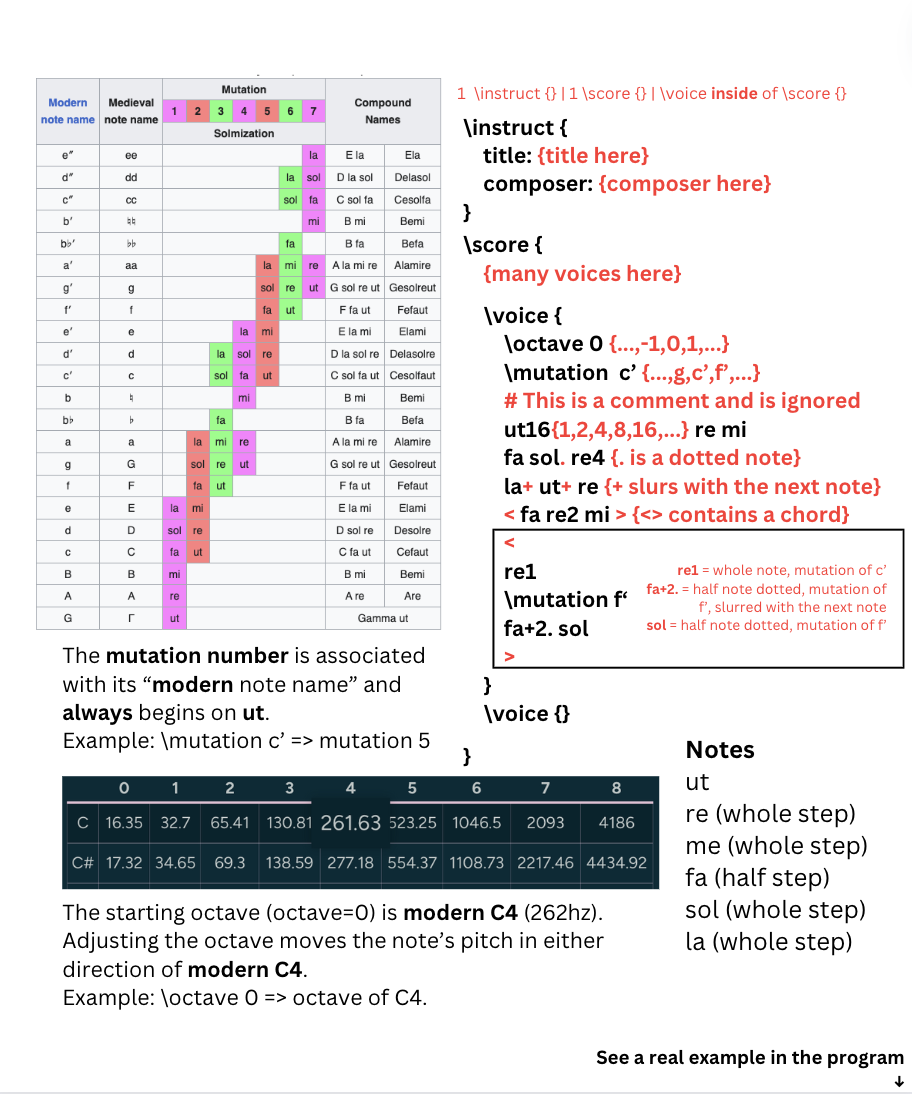
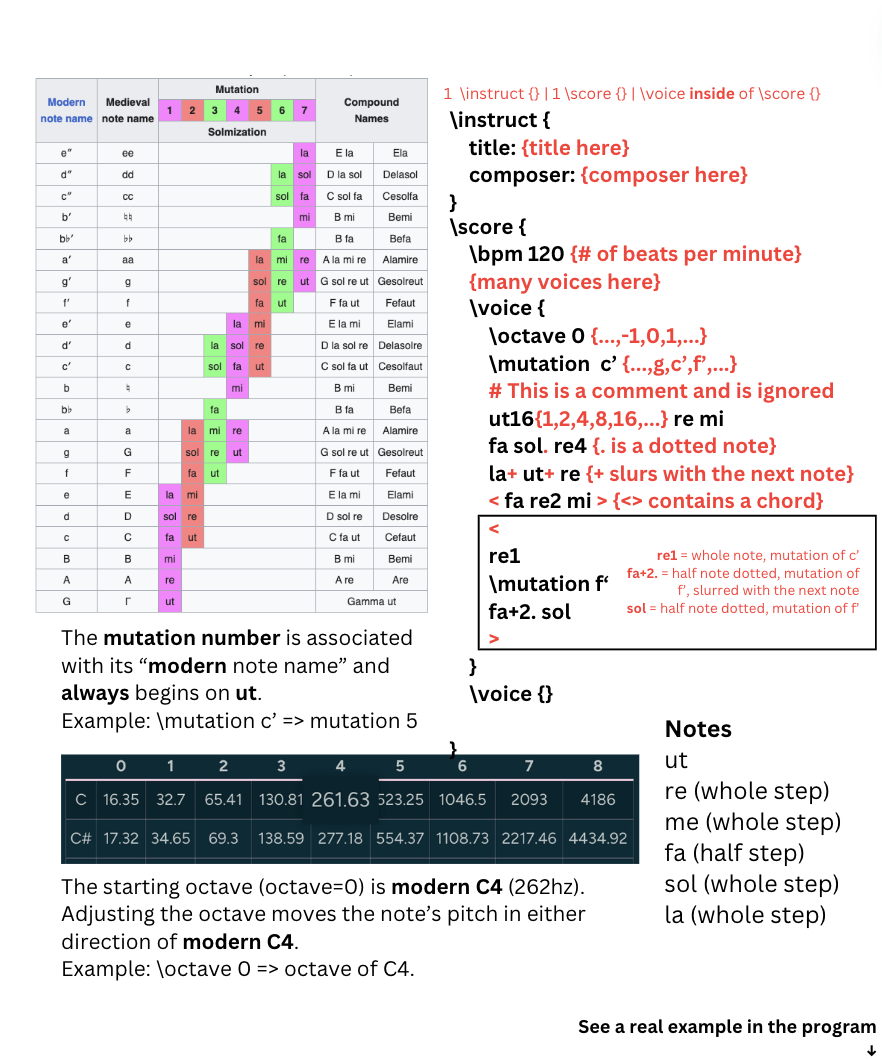
updates

Changed region(s): [[0.0306, 0.0623, 1.0, 0.934], [0.0, 0.9651, 1.0, 1.0]]

diff --git a/src/compiler.py b/src/compiler.py
@@ -1,7 +1,7 @@
 import logging, re
 
 # constants
-INSTRUCT, SCORE, VOICE, OCTAVE, MUTATION = "instruct", "score", "voice", "octave", "mutation"
+INSTRUCT, SCORE, VOICE, OCTAVE, MUTATION, BPM = "instruct", "score", "voice", "octave", "mutation", "bpm"
 NOTES = ["ut", "re", "mi", "fa", "sol", "la", "ut+", "re+", "mi+", "fa+", "sol+", "la+", "-"]
 
 ## MAIN FUNCTION ##
@@ -13,9 +13,12 @@ def compile_score(filepath: str) -> dict | list:
     mode = None
     octave = None
     mutation = None
+    bpm = 120/60 # this is normalized
     chords = []
     duration = 1
     voice = -1
+    start_chord = False
+    end_chord = False
 
     with open(filepath, "r") as MUSIC_FILE:
         for line in MUSIC_FILE.readlines():
@@ -29,7 +32,7 @@ def compile_score(filepath: str) -> dict | list:
 
             # mode change
             if tokens[0].startswith("\\"):
-                mode, octave, mutation, voice = change_mode(mode, tokens, voices, octave, mutation, voice)
+                mode, octave, mutation, bpm, voice = change_mode(mode, tokens, voices, octave, mutation, bpm, voice)
                 # error detected
                 if mode == None: 
                     logging.error("mode not found")
@@ -39,28 +42,33 @@ def compile_score(filepath: str) -> dict | list:
             if mode == INSTRUCT:
                 update_file_data(tokens, file_data)
             elif mode == VOICE:
-                duration, chords = update_voices(tokens, voices[voice], octave, mutation, duration, chords)
+                duration, chords, start_chord, end_chord = update_voices(tokens, voices[voice], octave, mutation, bpm, duration, chords, start_chord, end_chord)
+
+    import pprint
+    pprint.pprint(voices)
+    print(bpm)
 
     return file_data, voices
 
 ## HELPER FUNCTION ##
-def change_mode(mode: str, tokens: list, voices: list, octave: int, mutation: str, voice: int) -> tuple:
+def change_mode(mode: str, tokens: list, voices: list, octave: int, mutation: str, bpm: int, voice: int) -> tuple:
     """This method reads when a mode change occurs."""
     # get token and compare
     command = tokens[0].split("\\")[1].strip()
 
     # change mode
-    if command == INSTRUCT: return (INSTRUCT, octave, mutation, voice)
-    elif command == SCORE: return (SCORE, octave, mutation, voice)
+    if command == INSTRUCT: return (INSTRUCT, octave, mutation, bpm, voice)
+    elif command == SCORE: return (SCORE, octave, mutation, bpm, voice)
     elif command == VOICE:
         voice += 1
         voices.append([])
-        return (VOICE, octave, mutation, voice)
-    elif command == OCTAVE: return (mode, int(tokens[1]), mutation, voice)
-    elif command == MUTATION: return (mode, octave, str(tokens[1]), voice)
+        return (VOICE, octave, mutation, bpm, voice)
+    elif command == OCTAVE: return (mode, int(tokens[1]), mutation, bpm, voice)
+    elif command == MUTATION: return (mode, octave, str(tokens[1]), bpm, voice)
+    elif command == BPM: return (mode, octave, mutation, int(tokens[1])/60, voice)
     
     # mode note found
-    return (None, octave, mutation, voice)
+    return (None, octave, mutation, bpm, voice)
 
 def update_file_data(tokens: "list[str]", file_data: dict) -> None:
     """This method reads when to update the file's data."""
@@ -69,10 +77,8 @@ def update_file_data(tokens: "list[str]", file_data: dict) -> None:
     if key in file_data:
         file_data[key] = value
 
-def update_voices(tokens:"list[str]", voice_data: "list[dict]", octave: int, mutation: str, duration: int, chords: list) -> int | list:
+def update_voices(tokens:"list[str]", voice_data: "list[dict]", octave: int, mutation: str, bpm: int, duration: int, chords: list, start_chord: bool, end_chord: bool) -> int | list:
     """This method will transpose each note to readable notes for the player."""
-    start_chord = False
-    end_chord = False
 
     # go through the notes
     for note in tokens:
@@ -98,6 +104,9 @@ def update_voices(tokens:"list[str]", voice_data: "list[dict]", octave: int, mut
             # normalize duration
             duration = 1 / duration * 4
 
+            # take into account bpm
+            duration /= bpm
+
             # calculate beat
             for _ in range(num_dots):  duration += duration / 2
 
@@ -105,8 +114,9 @@ def update_voices(tokens:"list[str]", voice_data: "list[dict]", octave: int, mut
             continue
 
         # create note and add to chords
-        note_info = parse_note(note, duration, octave, mutation)
-        chords.append(note_info)
+        if note:
+            note_info = parse_note(note, duration, octave, mutation)
+            chords.append(note_info)
         
         # skip if we are in the middle of a chord
         if start_chord and not end_chord:
@@ -114,14 +124,14 @@ def update_voices(tokens:"list[str]", voice_data: "list[dict]", octave: int, mut
 
         if chords[-1] == " ": del chords[-1]
 
-        # add chord to coice data and clear
+        # add chord to voice data and clear
         voice_data.append(chords.copy())
         chords.clear()
 
         start_chord = False
         end_chord = False
 
-    return duration, chords
+    return duration, chords, start_chord, end_chord
 
 def parse_note(note: str, duration: float, octave: int, mutation: str) -> dict:
     """This puts together a dictionary to house the transposed notes."""

diff --git a/src/views/scoreInformation.py b/src/views/scoreInformation.py
@@ -22,6 +22,9 @@ class ScoreInformation(customtkinter.CTkToplevel):
         self.img_replay = customtkinter.CTkImage(Image.open(f"{PATH}/replay.png").resize(IMAGE_SIZE))
         self.img_close = customtkinter.CTkImage(Image.open(f"{PATH}/close.png").resize(IMAGE_SIZE))
 
+        # escape key
+        self.bind('<Escape>', lambda event: self.destroy())
+
     def open_score(self, file_data: dict, organum: list):
         self.grid_columnconfigure(0, weight=1)
 
@@ -61,3 +64,6 @@ class ScoreInformation(customtkinter.CTkToplevel):
             command=lambda: self.destroy()
         )
         self.close_button.grid(row=2, column=1, padx=BUTTON_PADDING, pady=BUTTON_PADDING)
+
+        # bind key
+        self.bind("<Command-p>", lambda event: play(organum))

diff --git a/src/views/utilbar.py b/src/views/utilbar.py
@@ -90,6 +90,13 @@ class UtilBar(customtkinter.CTkFrame):
         )
         self.help_button.grid(row=0, column=4, padx=BUTTON_PADDING, pady=BUTTON_PADDING)
 
+        # bind key
+        self.master.bind("<Command-p>", lambda event: self.listen_play())
+        self.master.bind("<Command-n>", lambda event: self.listen_new_file())
+        self.master.bind("<Command-o>", lambda event: self.listen_open_file())
+        self.master.bind("<Command-h>", lambda event: self.listen_help_tab())
+        self.master.bind("<Command-c>", lambda event: self.listen_close_tab())
+
     def listen_play(self):
         tab_name = self.master.tab_view.get()
         file_path = self.master.tab_view.tabs[tab_name]

diff --git a/src/views/helpInformation.py b/src/views/helpInformation.py
@@ -89,6 +89,9 @@ class HelpInformation(customtkinter.CTkToplevel):
         )
         self.download_button.grid(row=1, column=3, padx=BUTTON_PADDING, pady=BUTTON_PADDING)
 
+        # escape key
+        self.bind("<Escape>", lambda event: self.destroy())
+
     def open_example(self):
         self.master.tab_view.add_tab(self.example_file_name, self.example_file_path)
         self.master.tab_view.tab(self.example_file_name).textbox.configure(state="disabled")

diff --git a/src/app.py b/src/app.py
@@ -17,3 +17,6 @@ class App(customtkinter.CTk):
         # file tab bar
         self.tab_view = FileTabs(master=self)
         self.tab_view.grid(row=1, column=0, padx=5, pady=5, sticky="nsew")
+
+        # escape key
+        self.bind("<Escape>", lambda event: self.destroy())
